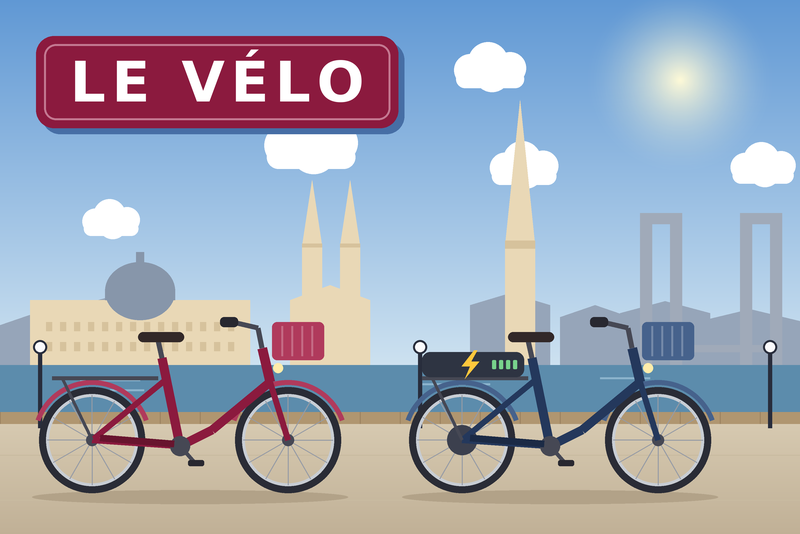
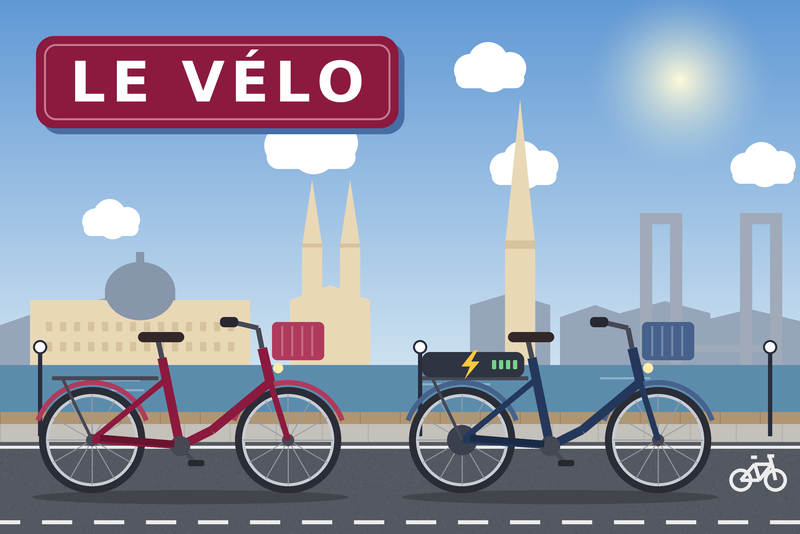
Cover: a cycle lane instead of sand
Claude-Session: https://claude.ai/code/session_01CqSEhoxCvqVUKnVPzugtYR

Changed region(s): [[0.0, 0.809, 1.0, 1.0]]

diff --git a/CHANGELOG.md b/CHANGELOG.md
@@ -20,7 +20,7 @@ the notes of the version's GitHub Release.
 ### Changed
 
 - A new cover image, in the style of the TBM integration: a classic bike and
-  an electric bike on the quays of Bordeaux.
+  an electric bike on a cycle lane along the quays of Bordeaux.
 
 ## [0.1.0] - 2026-10-13
 
